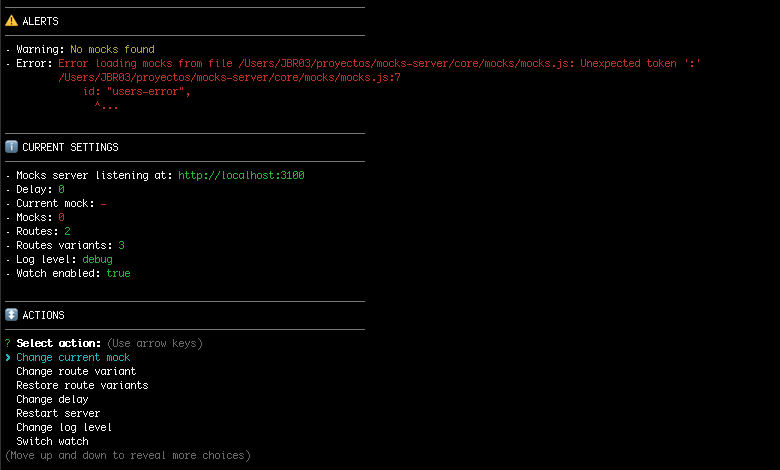
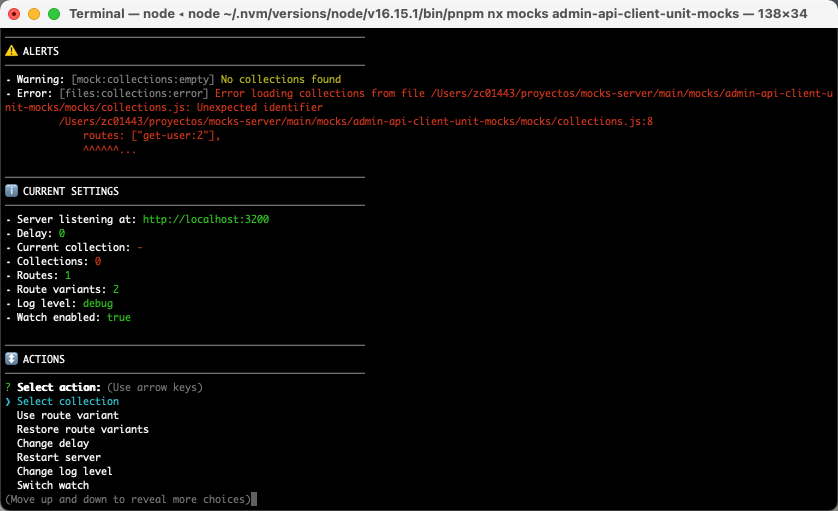
feat: update cli screenshots

Changed region(s): [[0.0, 0.0, 1.0, 1.0]]

diff --git a/docs/releases/migrating-from-v3.md b/docs/releases/migrating-from-v3.md
@@ -21,6 +21,10 @@ If you are already using Mocks Server v2.x you should [migrate first from v2.x t
 
 Even when v4 release is still not published, we are deprecating some things in v3 that will be removed in v4. While v4 is not released, every change in v3.x will be completely backward compatible, but __users upgrading to next minor versions would probably receive alerts about usage of deprecated methods, etc__.
 
+:::info
+Alerts are logged and [displayed in the interactive CLI](../integrations/command-line.md), apart from being available using any of the Mocks Server APIs.
+:::
+
 So, every time you upgrade a minor version and receive a deprecation alert, you can come to this page and see how to adapt your code for the next major version, so you'll be able to prepare to it progressively and finally update to v4 without breaking changes.
 
 :::tip
